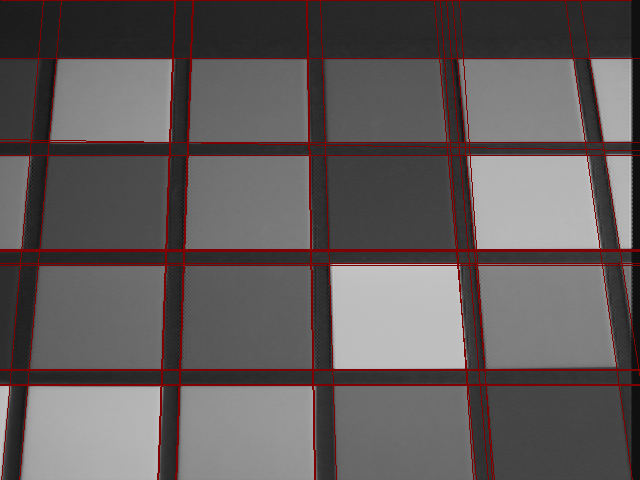
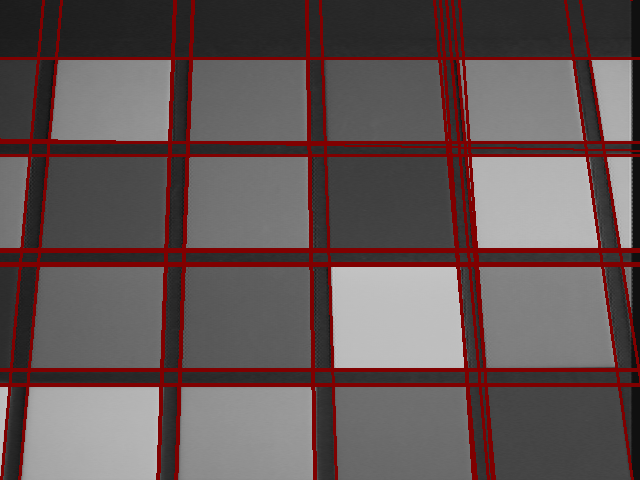
final submission

diff --git a/hw3_starter/Python/hw3_challenge1.py b/hw3_starter/Python/hw3_challenge1.py
@@ -1,5 +1,7 @@
 from PIL import Image, ImageDraw
 import numpy as np
+from skimage.morphology import dilation
+from skimage import filters
 
 THETA_BIN_WID = 1
 RHO_BIN_WID = 1
@@ -70,6 +72,8 @@ def lineFinder(orig_img: np.ndarray, hough_img: np.ndarray, hough_threshold: flo
     print(zip(hough_peaks_r,hough_peaks_c))
     line_img = Image.fromarray(orig_img.astype(np.uint8)).convert('RGB')
     draw = ImageDraw.Draw(line_img)
+    blank_space = Image.fromarray(np.zeros_like(line_img).astype(np.uint8))
+    getLines = ImageDraw.Draw(blank_space)
     
     height = np.shape(orig_img)[0] 
     width = np.shape(orig_img)[1] 
@@ -86,14 +90,15 @@ def lineFinder(orig_img: np.ndarray, hough_img: np.ndarray, hough_threshold: flo
             if xp0 < 0:
                 xp0, yp0 =  (rho-height*np.cos(theta))/np.sin(theta), height
         # print(rho,theta*180/np.pi)
-        draw.line((xp0, yp0, xp1, yp1), fill=128)
+        draw.line((xp0, yp0, xp1, yp1), fill=128,width=3)
+        getLines.line((xp0, yp0, xp1, yp1), fill="white")
         # draw.line((-100, yp0, 600, 1200), fill=128)
     
     line_img.show()
-    return  line_img
+    return  line_img, blank_space
     raise NotImplementedError
 
-def lineSegmentFinder(orig_img: np.ndarray, edge_img: np.ndarray, hough_img: np.ndarray, hough_threshold: float):
+def lineSegmentFinder(orig_img: np.ndarray, edge_img: np.ndarray, just_lines: np.ndarray):
     '''
     Find the line segments in the image.
     Arguments:         
@@ -104,4 +109,65 @@ def lineSegmentFinder(orig_img: np.ndarray, edge_img: np.ndarray, hough_img: np.
     Returns:
         line_segement_img: PIL image with line segments drawn.
     '''
+    original_rgb = np.stack([orig_img]*3, axis=-1)
+    red_overlay = np.array([255, 0, 0], dtype=np.uint8)
+    
+    k = 7
+    selem1 = np.ones((k, k))
+    processed_lines = dilation(just_lines, selem1)
+    line_mask = processed_lines & edge_img
+    binary_mask = line_mask.astype(bool)
+    binary_copy = np.copy(binary_mask)
+
+    def process_random_points(image, image_copy, block_size, num_samples):
+
+        height, width = image.shape
+        
+        # Identify all white points
+        white_points = np.argwhere(image == 1)
+        print(len(white_points))
+        
+        # Randomly sample white points
+        if len(white_points) > num_samples:
+            sampled_points = white_points[np.random.choice(len(white_points), size=num_samples, replace=False)]
+        else:
+            sampled_points = white_points
+        
+        # Process each sampled point
+        for y, x in sampled_points:
+            start_x = max(x - block_size // 2, 0)
+            start_y = max(y - block_size // 2, 0)
+            end_x = min(x + block_size // 2 + 1, width)
+            end_y = min(y + block_size // 2 + 1, height)
+
+            kernel = image[start_y:end_y, start_x:end_x]
+            
+            if kernel.shape[0] < block_size or kernel.shape[1] < block_size:
+                continue
+            
+            edge_count = 0
+            if np.any(kernel[0, :]):
+                edge_count += 1
+            if np.any(kernel[:, 0]):
+                edge_count += 1
+            if np.any(kernel[-1, :]):
+                edge_count += 1
+            if np.any(kernel[:, -1]):
+                edge_count += 1
+            
+            if edge_count < 2:
+                image_copy[start_y:end_y, start_x:end_x] = 0
+        
+        return image_copy
+   
+    block_size = 15
+    num_samples = 1500
+    processed_mask = process_random_points(binary_mask, binary_copy, block_size, num_samples)
+    segemnted_lines = np.where(processed_mask[..., None], red_overlay, original_rgb)
+    
+    final_image = Image.fromarray(segemnted_lines)
+    final_image.show()
+
+
+    return final_image
     raise NotImplementedError

diff --git a/hw3_starter/Python/runHw3.py b/hw3_starter/Python/runHw3.py
@@ -6,7 +6,7 @@ from PIL import Image
 import argparse
 import numpy as np
 from runTests import run_tests
-from skimage import filters, feature
+from skimage import feature
 import matplotlib.pyplot as plt
 
 THETA_BIN_WID = 1
@@ -157,15 +157,15 @@ def challenge1c():
         hough_img = Image.open(f'outputs/h2_{fn}')
         hough_img = np.array(hough_img.convert('L'))
         
-        
-        line_img = lineFinder(orig_img, hough_img, hough_threshold[i])
+        line_img, just_lines = lineFinder(orig_img, hough_img, hough_threshold[i])
         line_img.save(f'outputs/line_{fn}')
+        just_lines.save(f'outputs/just_lines_{fn}')
 
 def challenge1d():
     from hw3_challenge1 import lineSegmentFinder
     img_list = ['hough_1.png', 'hough_2.png', 'hough_3.png']
 
-    hough_threshold = [110,100,150];
+    # hough_threshold = [110,100,150];
 
     for i, fn in enumerate(img_list):
         orig_img = Image.open(f"data/{fn}")
@@ -174,11 +174,11 @@ def challenge1d():
         edge_img = Image.open(f'outputs/edge_{fn}')
         edge_img = np.array(edge_img.convert('L'))  # Convert the image to grayscale
         
+        just_lines = Image.open(f'outputs/just_lines_{fn}')
+        just_lines = np.array(just_lines.convert('L'))  # Convert the image to grayscale
         
-        hough_img = Image.open(f'outputs/h2_{fn}')
-        hough_img = np.array(hough_img.convert('L'))  # Convert the image to grayscale
-
-        line_segement_img = lineSegmentFinder(orig_img, edge_img, hough_img, hough_threshold[i])
+        line_segement_img = lineSegmentFinder(orig_img, edge_img, just_lines)
+        # line_segement_img = Image.fromarray(line_segement_img    )
         line_segement_img.save(f'outputs/croppedline_{fn}')
 
 if __name__ == '__main__':
